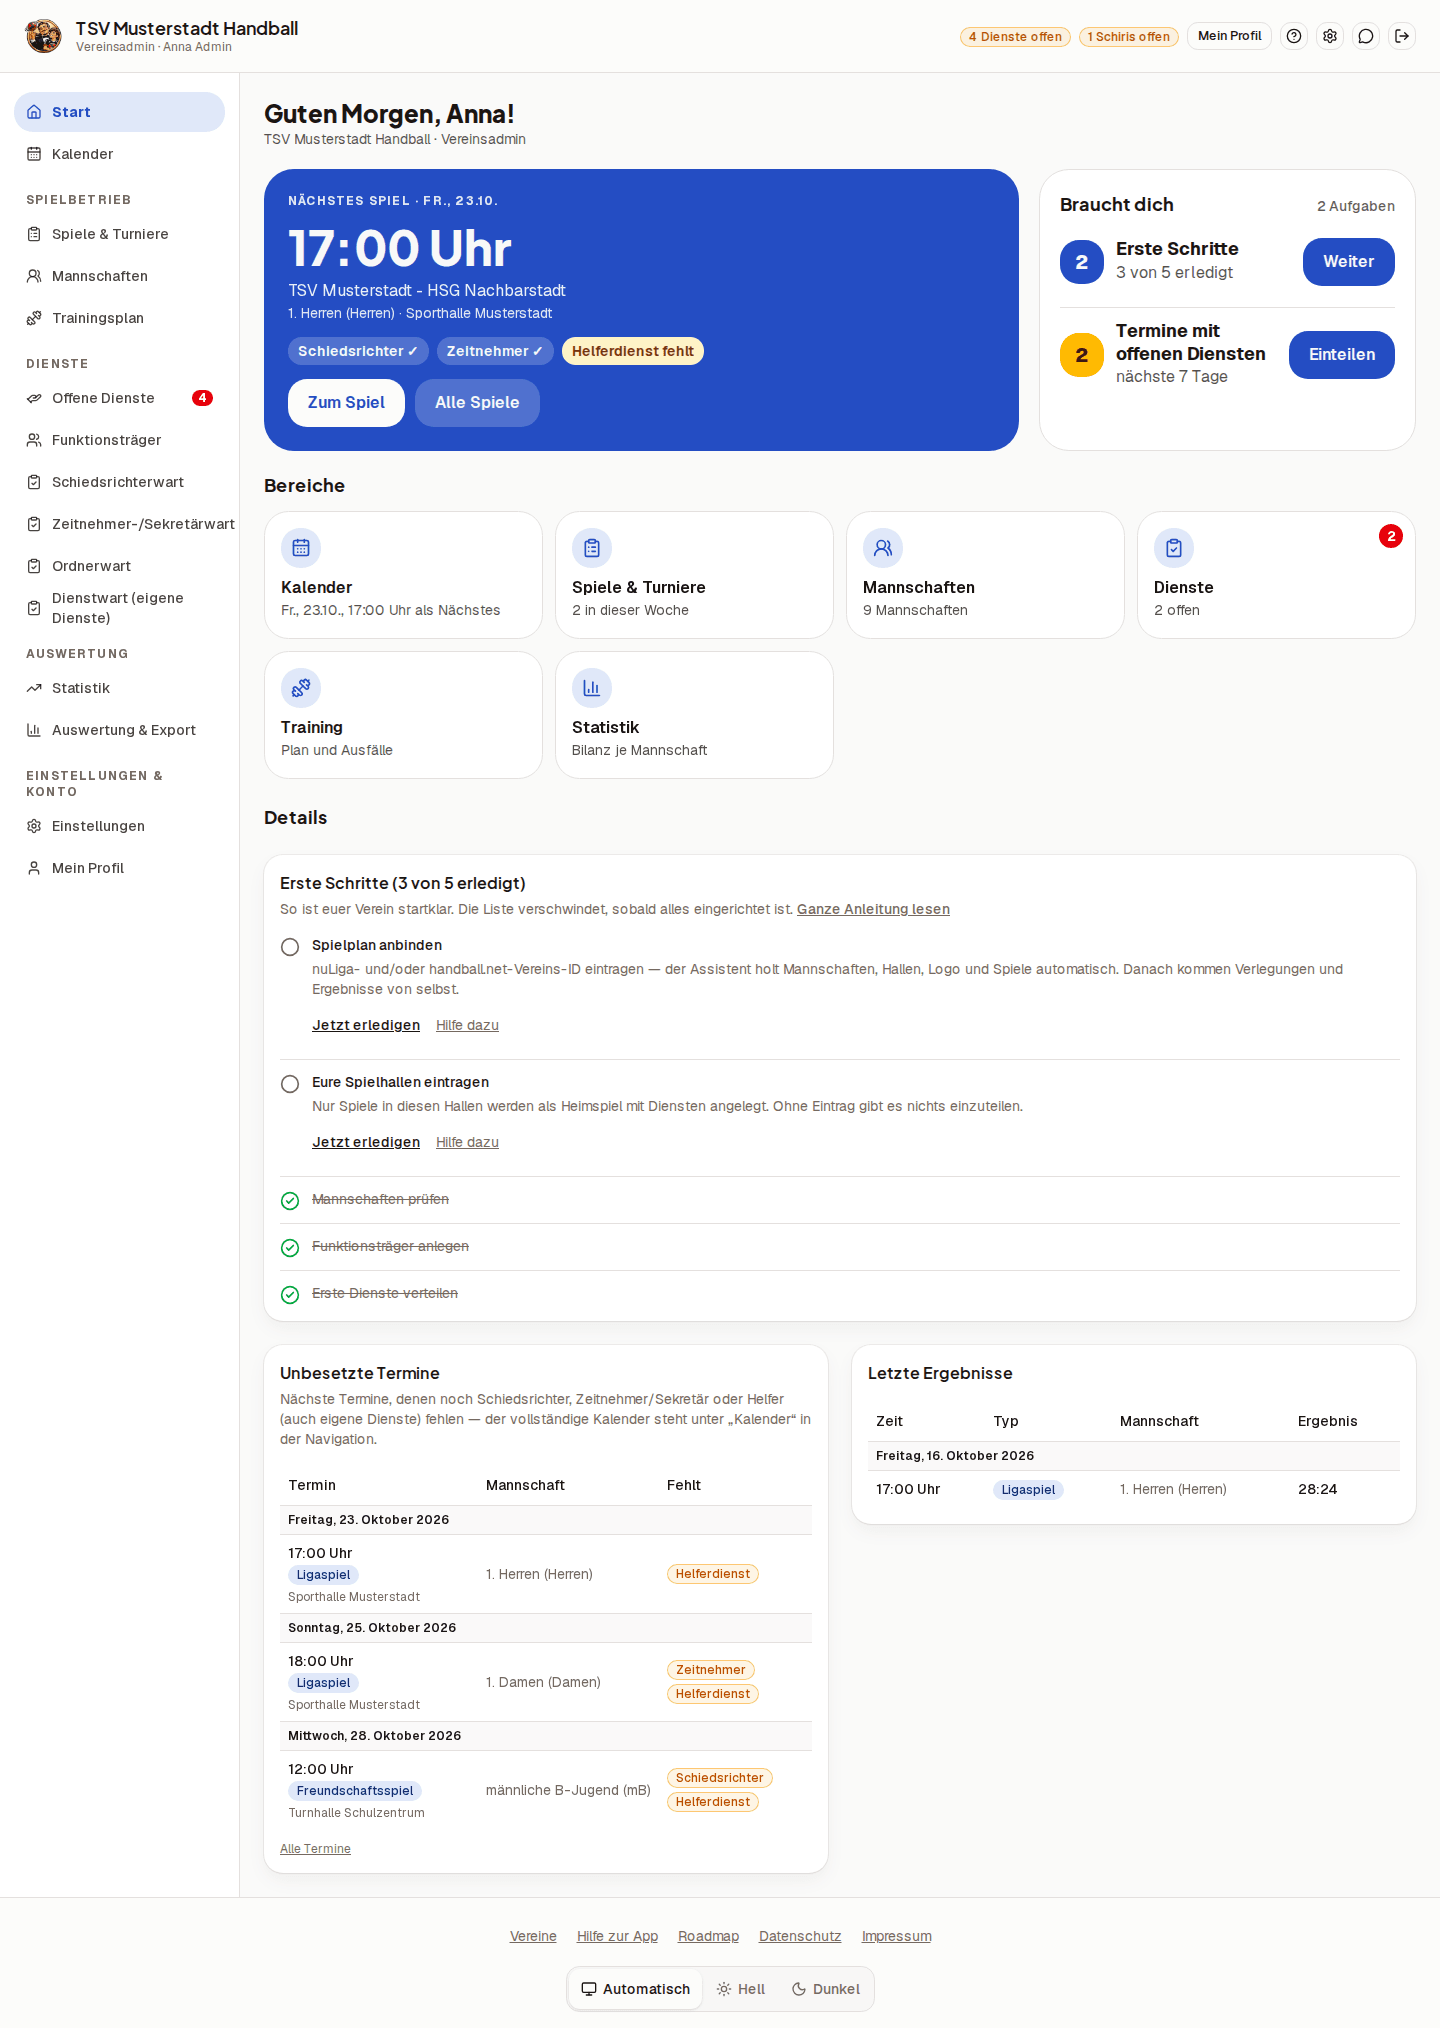
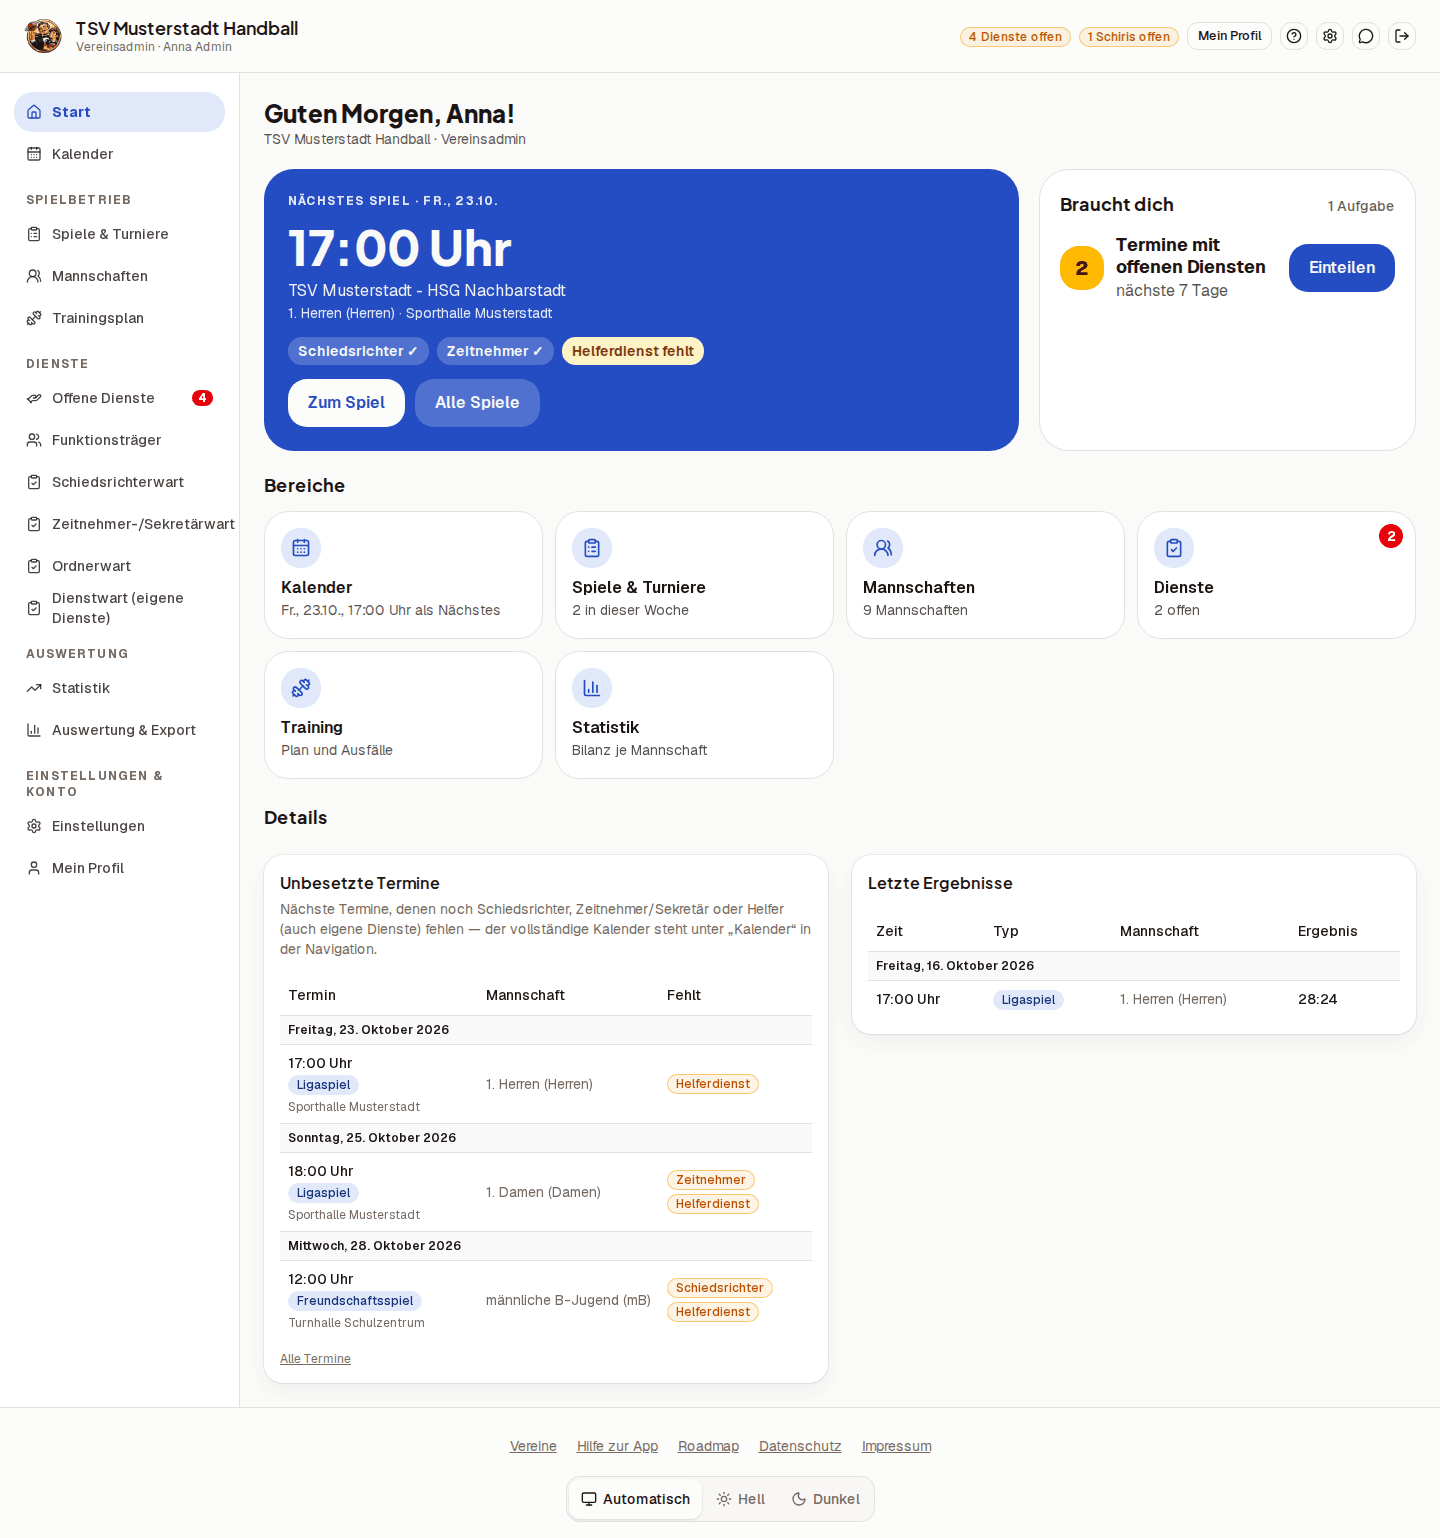
Produkttour: Erste Schritte aus den Screenshots entfernen (#457)
* Produkttour: Demo-Verein hat Spielplan und Spielhallen, Checkliste Erste Schritte entfällt auf den Screenshots

Claude-Session: https://claude.ai/code/session_013fTG76qMZTfyH2cp8pMWjW

* Produkttour-Screenshots neu erzeugt

---------

diff --git a/scripts/produkttour/seed.ts b/scripts/produkttour/seed.ts
@@ -20,6 +20,7 @@ import {
   funktionstraegerRollen,
 } from "../../src/db/schema";
 import { hashePasswort } from "../../src/lib/passwort";
+import { Client } from "pg";
 
 function tageAb(heute: Date, tage: number, stunde: number, minute = 0) {
   const d = new Date(heute);
@@ -45,6 +46,8 @@ async function main() {
         avvAkzeptiertVersion: "1.0",
         avvAkzeptiertVonName: "Anna Admin",
         avvAkzeptiertVonEmail: "admin@demo.handballerpate.de",
+        // Eure Spielhallen eingetragen: die Checkliste "Erste Schritte" soll auf den Screenshots nicht mehr erscheinen.
+        eigeneHallenNamen: "Sporthalle Musterstadt\nTurnhalle Schulzentrum",
         testspielOrdnerBedarf: 2,
         testspielKioskdienstBedarf: 1,
         turnierOrdnerBedarf: 3,
@@ -449,6 +452,19 @@ async function main() {
     console.log("Demo-Verein-ID:", vereinId);
     console.log("Admin-Login: admin@demo.handballerpate.de / Demo-Passwort-1!");
   });
+
+  // Spielplan angebunden (liga_verein mit Vereins-ID): zweiter Punkt der Checkliste "Erste Schritte". Die liga_*-Tabellen schreibt nur die
+  // privilegierte Verbindung (app_user darf nicht), daher direkt über DATABASE_ADMIN_URL; der Import selbst läuft hier nie.
+  const admin = new Client({ connectionString: process.env.DATABASE_ADMIN_URL });
+  await admin.connect();
+  try {
+    await admin.query(
+      `INSERT INTO liga_verein (verein_id, slug, name, verband, nuliga_club_id) VALUES ($1, 'tsv-musterstadt-handball', 'TSV Musterstadt Handball', 'HHV', '99999')`,
+      [vereinId]
+    );
+  } finally {
+    await admin.end();
+  }
 }
 
 main()
